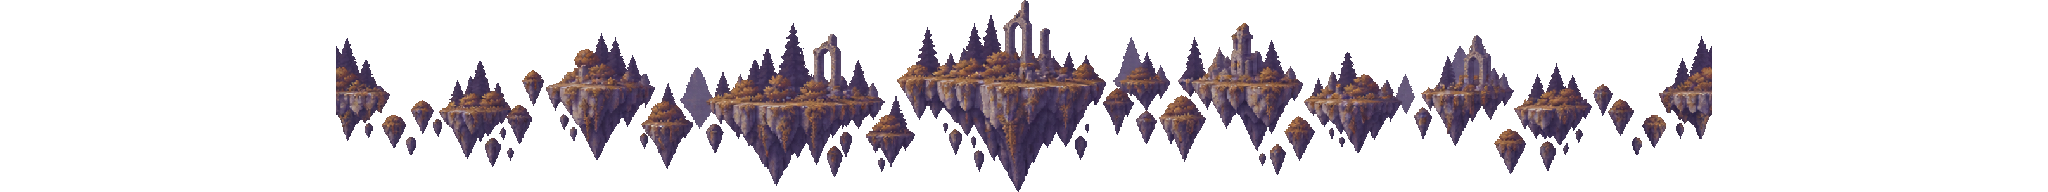
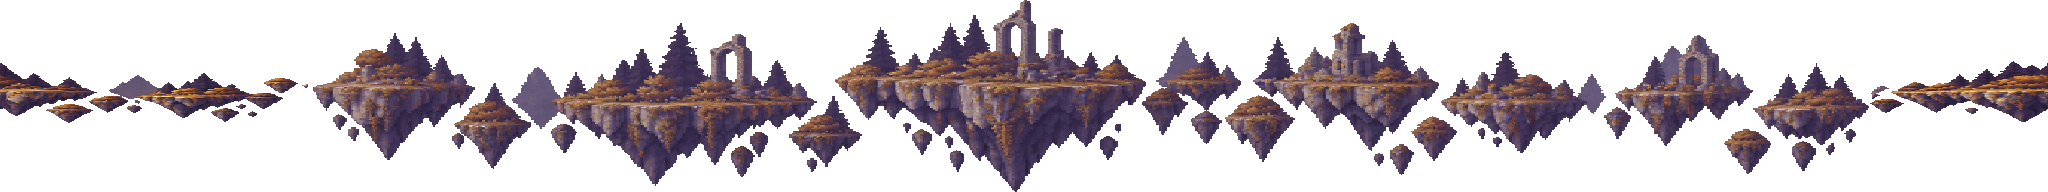
assets(hd2d): corriger les raccords et détourages du lot G

diff --git a/assets/CREDITS.md b/assets/CREDITS.md
@@ -31,3 +31,7 @@ egg n'a pas de licence établie (PLAN.md section 13) et n'est pas copié.
 | `assets/hd2d/props/airship_ferry.png`, `assets/hd2d/anim/airship_ferry_propeller.png`, `assets/hd2d/props/airship_barocupot.png`, `assets/hd2d/anim/airship_barocupot_propeller.png`, `assets/hd2d/sky/airship_far_a.png`, `assets/hd2d/sky/airship_far_b.png`, `assets/hd2d/sky/airship_far_c.png`, `assets/hd2d/sky/airship_far_d.png` | généré avec ChatGPT le 8 octobre 2026, lot C (outil image_gen) ; mise au format nearest-neighbor et adaptation technique des masques/raccords, sans quantification RGB | — | images générées pour le projet ; univers inspiré de SukaSuka, droits des ayants droit réservés | Monde C |
 
 | `assets/hd2d/ground/grass_b.png`, `assets/hd2d/ground/forest_floor_b.png`, `assets/hd2d/ground/path_dirt_b.png`, `assets/hd2d/ground/leaf_litter.png`, `assets/hd2d/ground/moss.png`, `assets/hd2d/ground/grass_dry_b.png`, `assets/hd2d/ground/flagstone_b.png`, `assets/hd2d/ground/cobble_b.png`, `assets/hd2d/ground/meadow_flowers.png`, `assets/hd2d/ground/gravel.png`, `assets/hd2d/ground/garden_soil.png`, `assets/hd2d/ground/sand_b.png`, `assets/hd2d/ground/rock_b.png`, `assets/hd2d/ground/planks.png`, `assets/hd2d/ground/stream_bed.png`, `assets/hd2d/decals/grass_edge_a.png`, `assets/hd2d/decals/grass_edge_b.png`, `assets/hd2d/decals/pebbles_a.png`, `assets/hd2d/decals/garden_bed.png`, `assets/hd2d/decals/clover_patch.png`, `assets/hd2d/decals/flowers_patch_a.png`, `assets/hd2d/decals/flowers_patch_b.png`, `assets/hd2d/decals/puddle_a.png`, `assets/hd2d/decals/puddle_b.png`, `assets/hd2d/decals/mud_patch.png`, `assets/hd2d/decals/cracks_a.png`, `assets/hd2d/decals/cracks_b.png`, `assets/hd2d/decals/pebbles_b.png`, `assets/hd2d/decals/stepping_stones.png`, `assets/hd2d/decals/lily_pads.png`, `assets/hd2d/decals/sand_drift_a.png`, `assets/hd2d/decals/sand_drift_b.png`, `assets/hd2d/decals/ring_stone_flat_a.png`, `assets/hd2d/decals/ring_stone_flat_b.png`, `assets/hd2d/decals/ring_stone_flat_c.png`, `assets/hd2d/decals/chalk_drawings.png`, `assets/hd2d/decals/chalk_hopscotch.png`, `assets/hd2d/decals/oil_stain.png`, `assets/hd2d/decals/rust_streak.png`, `assets/hd2d/decals/footprints.png`, `assets/hd2d/decals/cart_ruts.png`, `assets/hd2d/decals/drain_grate.png`, `assets/hd2d/decals/hay_scatter.png`, `assets/hd2d/decals/boardwalk.png`, `assets/hd2d/decals/mist_patch.png` | généré avec ChatGPT le 8 octobre 2026, lot B (outil image_gen) ; mise au format nearest-neighbor et adaptation technique des masques/raccords, sans quantification RGB | — | images générées pour le projet ; univers inspiré de SukaSuka, droits des ayants droit réservés | Monde B |
+
+### Lot G — corrections des raccords et détourages
+
+Six PNG corrigés avec ChatGPT / image_gen : `assets/hd2d/sky/sky_dusk.png`, `assets/hd2d/sky/sky_night.png`, `assets/hd2d/sky/horizon_islands.png`, `assets/hd2d/sky/mist_band.png`, `assets/hd2d/sky/distant_island_d.png`, `assets/hd2d/sky/distant_island_f.png`. Sources conservées hors du dépôt ; assemblage et détourage sans réduction de palette.
